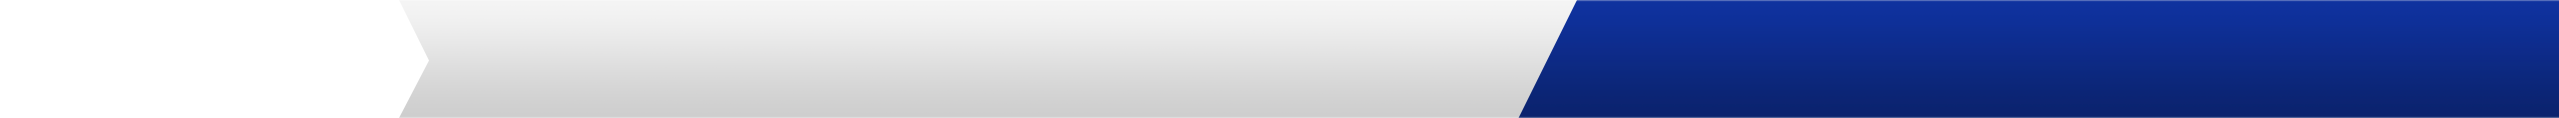
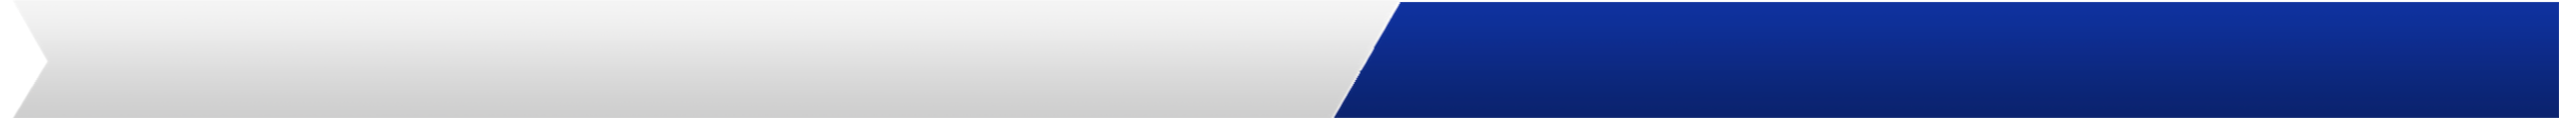
menu bar looks pretty good. pulling changes from master to make sure new css doesn't affect the formatting I did.

Changed region(s): [[0.4939, 0.0, 1.0, 1.0], [0.0, 0.3814, 0.1852, 1.0]]

diff --git a/client/web-app/styles/sass/filter.scss b/client/web-app/styles/sass/filter.scss
@@ -33,9 +33,11 @@
     #programInfo {
         z-index: 10;
         display:inline-block;
-        margin-left:1px;
+        margin-left: 175px;
+        margin-top: 10px;
         background: transparent;
         float:left;
+        position: absolute;
     }
     .epg-controls{
         span {
@@ -49,10 +51,12 @@
     #currentChannel {
         img {
             height: 60px;
-            padding-left: 10px;
+            padding-left: 25px;
+            position: absolute;
+            z-index: 3;
         }
         background-color: rgba(255,255,255,0.85);
-        width: 70px;
+        //width: 70px;
     }
     .entire-description {
         margin-left: 10px;
@@ -80,7 +84,7 @@
     text-align: left;
     font-size: 14px;
     font-weight: bold;
-    color: white;
+    color: #8339B2;
     cursor: default;
 }
 
@@ -91,7 +95,7 @@
     overflow: hidden;
     text-overflow: clip;
     line-height: 25px;
-    color: white;
+    color: #8339B2;
     vertical-align: middle;
     font-size: 10px;
     cursor: default;
@@ -106,17 +110,18 @@
 }
 
 #favorite {
-    width:5%;
+    //width:5%;
     height:40px;
     float: left;
-    margin-left:24%;
+    margin-left: 141px;
     margin-right: 10px;
     padding-top:18px;
     text-align: center;
     display:inline-block;
     vertical-align: middle;
     background: transparent;
-    z-index: 2;
+    z-index: 3;
+    position: absolute;
 }
 
 .label-filer {
@@ -305,7 +310,7 @@
 }
 
 #currentChannel {
-    width: 175px;
+    //width: 175px;
     height: 40px;
     text-align: center;
     float: left;
@@ -346,4 +351,14 @@
 
 #channelMenuBackground{
     position: absolute;
+    width: 100%;
+    height: 100%;
+    z-index: 0;
+}
+
+#channelMenuWhite{
+    position: absolute;
+    height: 57px;
+    width: 168px;;
+    z-index: 1;
 }

diff --git a/client/web-app/views/filter.html b/client/web-app/views/filter.html
@@ -1,7 +1,7 @@
 <div id="channelMenuHolder" class="container-fluid">
     <!-- style="background-image: url(../images/ChannelBar-full.png); background-size: 100%" -->
-    <img id="channelMenuBackground" src="../images/ChannelBar-full.png" style="width: 100%; height: 100%; z-index: 0">
-    <img src="../images/ChannelBar-white.png" style="width: 154px; z-index: 10">
+    <img id="channelMenuBackground" src="../images/ChannelBar-full.png">
+    <img id="channelMenuWhite" src="../images/ChannelBar-white.png">
     <div id="menuBar">
         <nav class="navbar navbar-default" role="navigation">
             <!-- left half of menu bar -->

diff --git a/client/web-app/scripts/controllers/player-controller.js b/client/web-app/scripts/controllers/player-controller.js
@@ -98,6 +98,7 @@
         // get epg programming / favorite channels for user and initialize all channels view
         function getProgramming() {
             playerSvc.getProgramming(function (err, programming) {
+                console.log('calling for prog', programming)
                 $scope.allChannels = programming;
                 $scope.programming = $scope.allChannels.slice(0, 10);
                 currentView = 'all';

diff --git a/client/web-app/views/player.html b/client/web-app/views/player.html
@@ -25,7 +25,7 @@
     </div>
 
     <div combine-horizontal-scrolls="horizontal-scroll" ng-show="channelsLoaded">
-        <div ng-include="'views/filter.html'"></div>
+        <div ng-include="'views/filter.html'" style="position: relative"></div>
 
         <!-- create the clock and time bar -->
         <div id="clock" current-time="" class="position-div"></div>

diff --git a/client/web-app/styles/sass/player.scss b/client/web-app/styles/sass/player.scss
@@ -501,9 +501,9 @@
         width: 7%;
     }
 
-    #favorite {
-        width: 7%;
-    }
+    //#favorite {
+    //    width: 7%;
+    //}
 }
 
 .free-tv {
